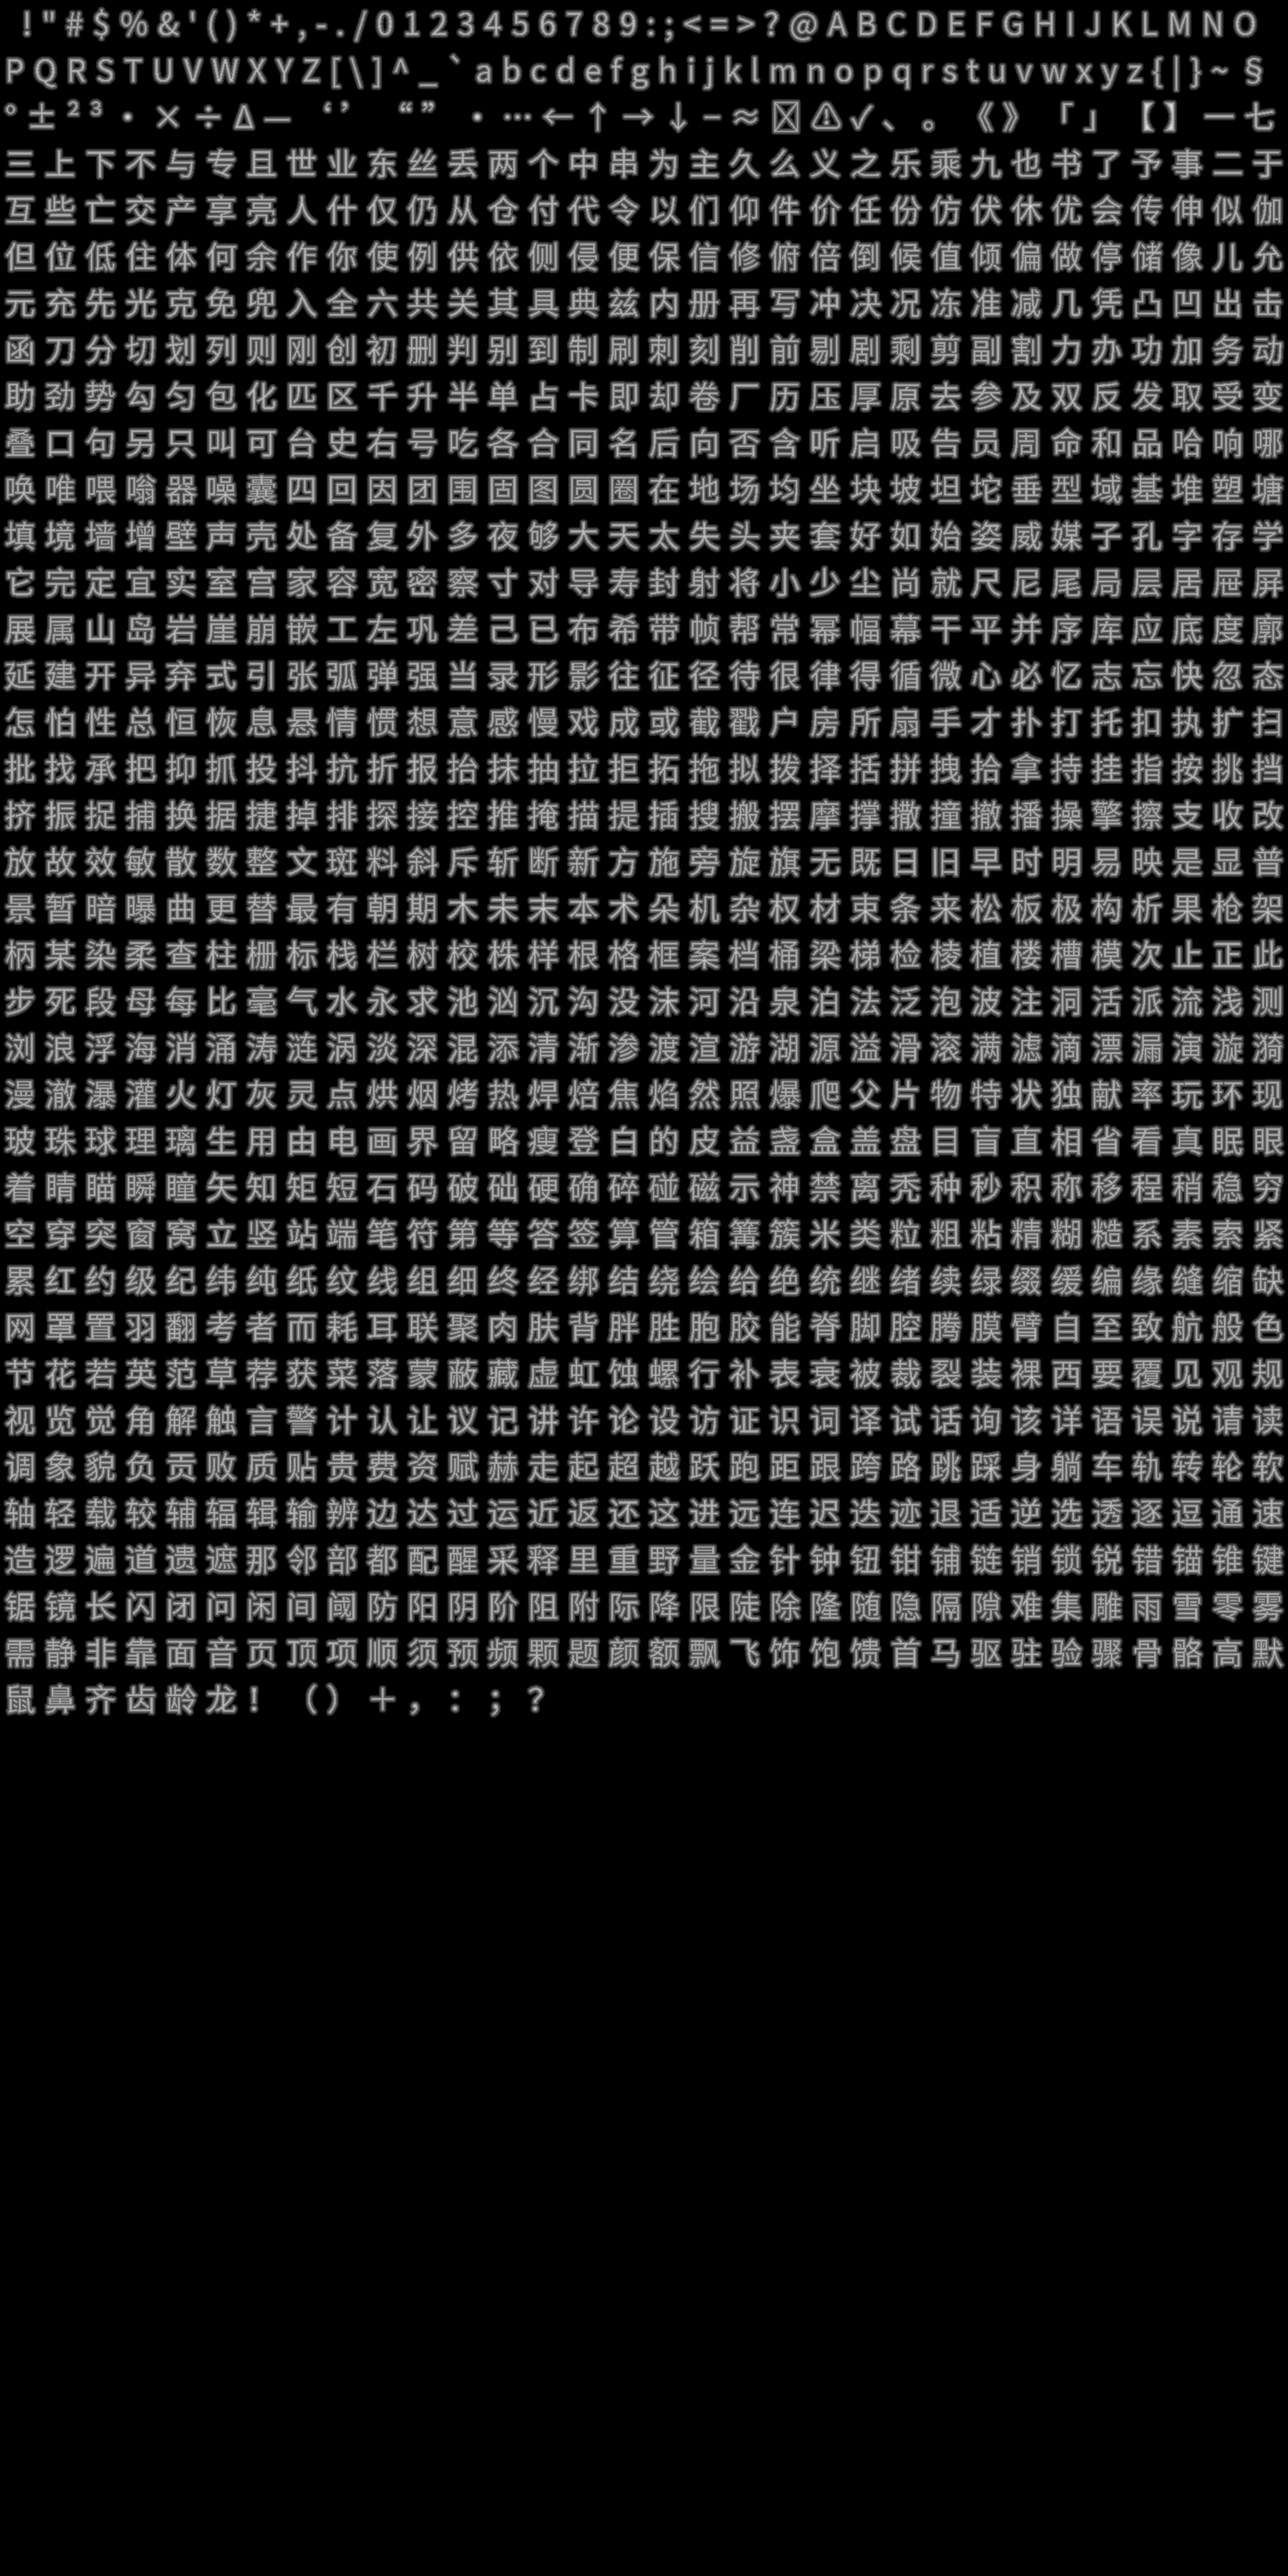
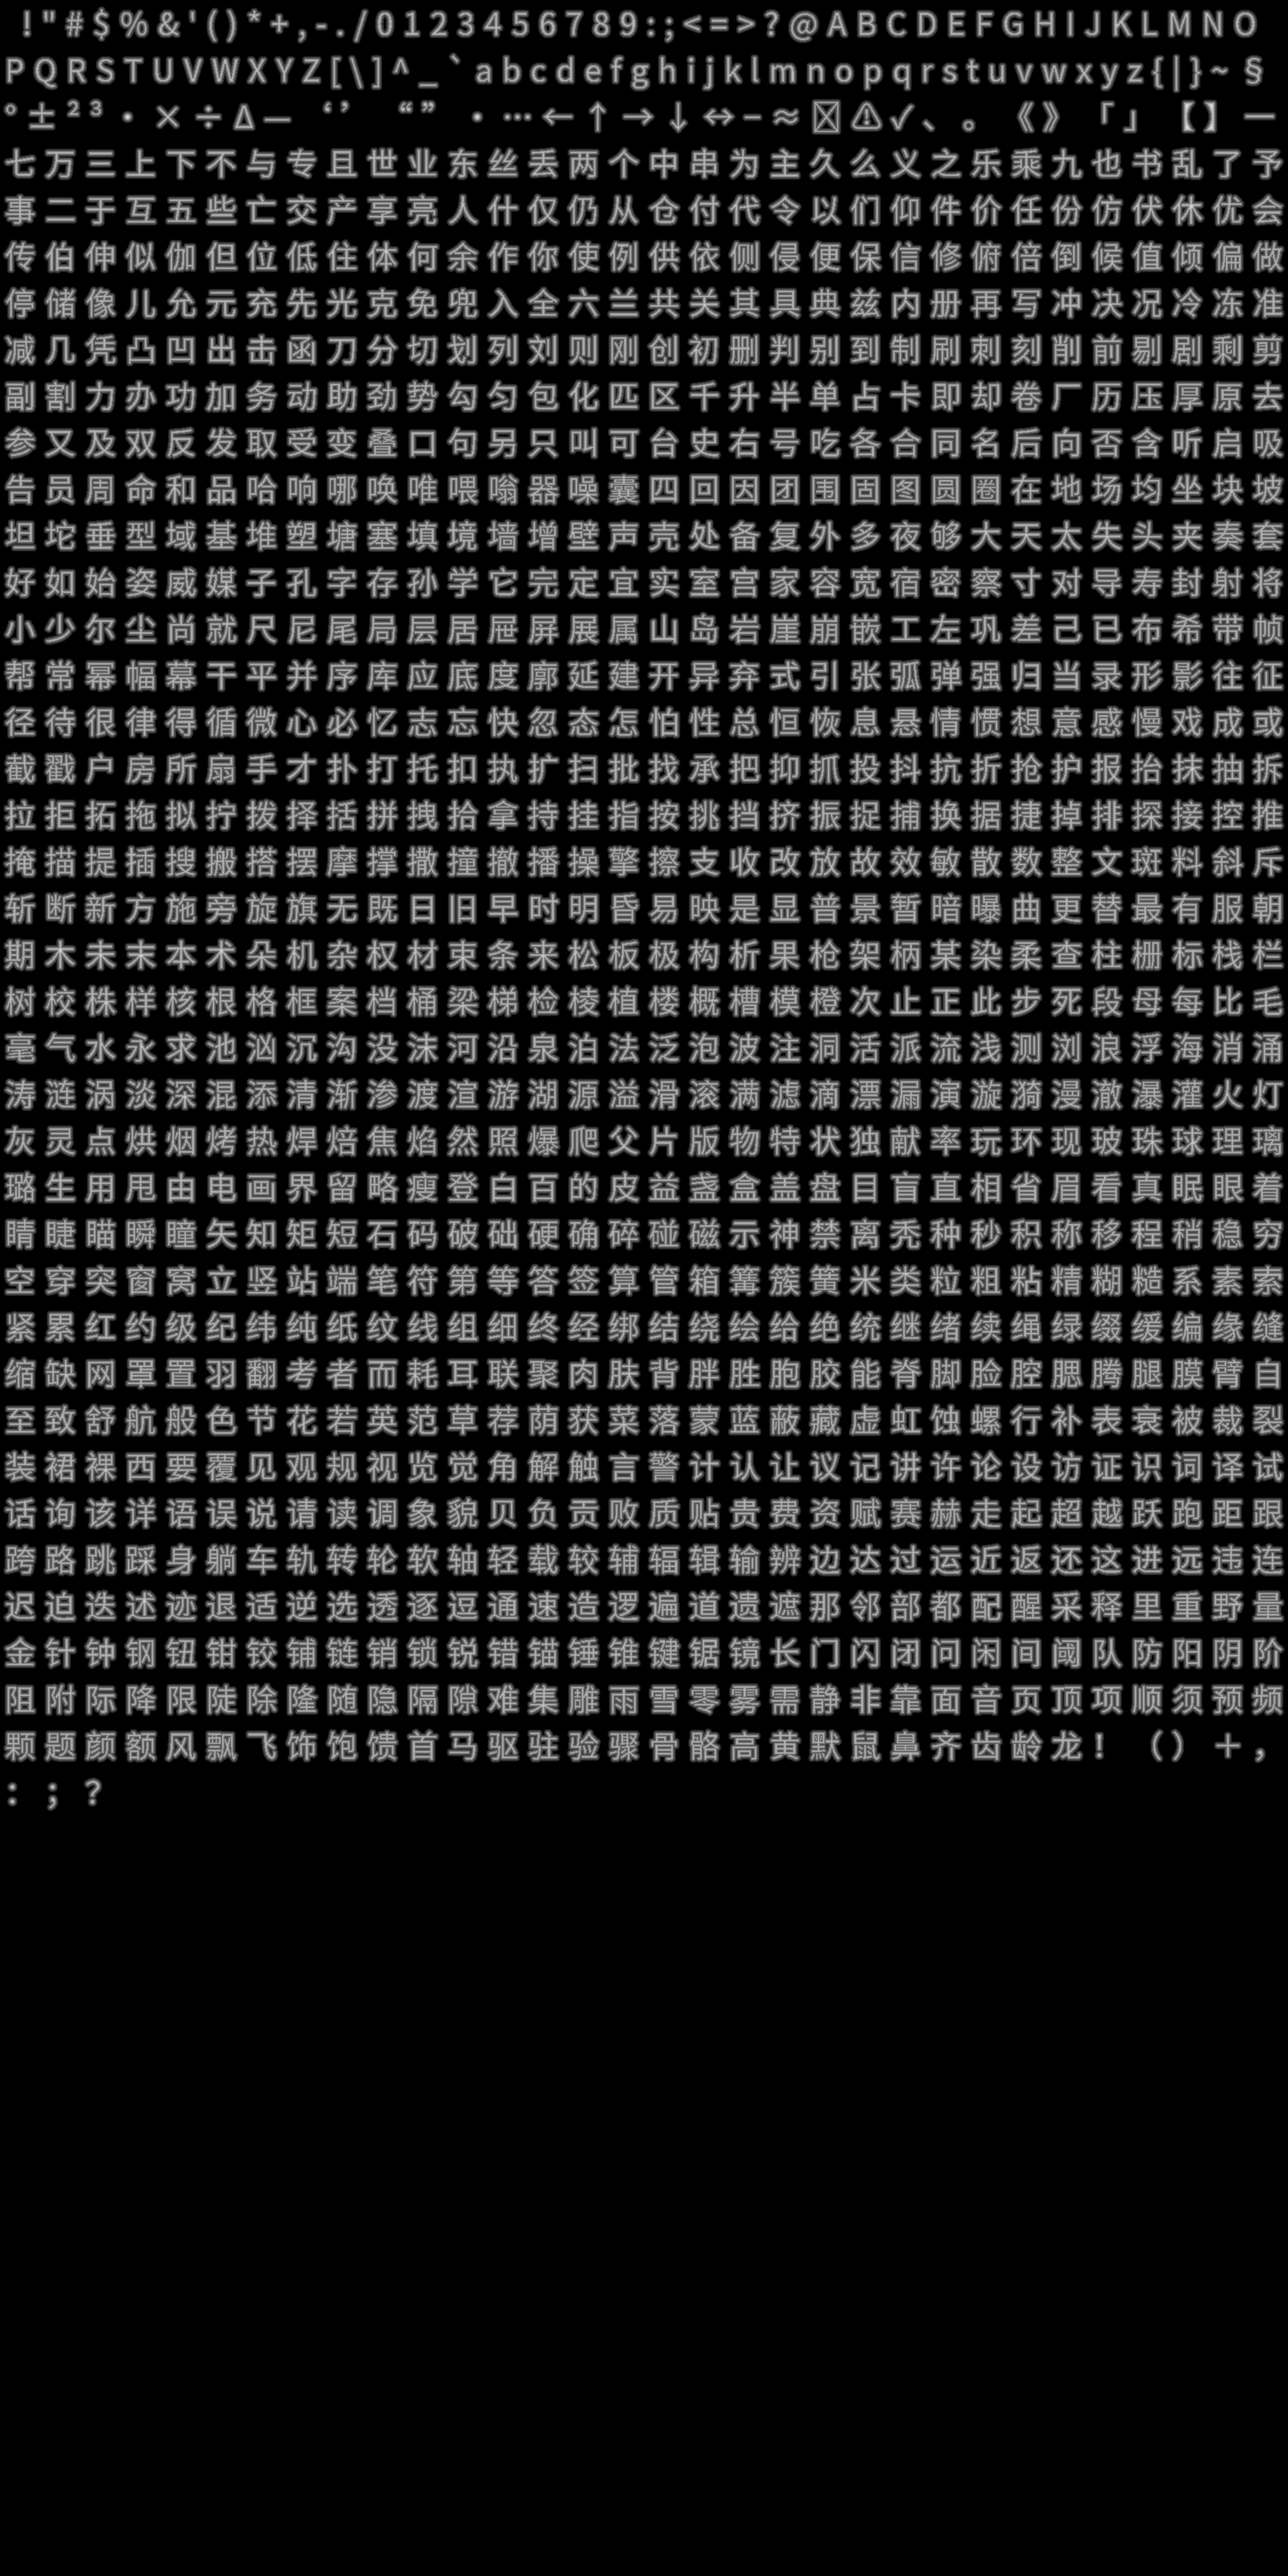
imgui: 46ff5a7 -> 2859f67，并重烤两张基线（像素骨架 + SDF 图集）
任务 #323。

## 为什么这次指针「该动」

上一轮（2d40d62）把指针钉回 46ff5a7，是因为它和**工作区**不一致。这次是
相反的方向：46ff5a7 -> 2859f67 是 1.93.0 WIP 开发分支上前进的 131 个提交
（2026-09-29 -> 2026-10-07）。注意 `IMGUI_VERSION` 两个提交都是
"1.93.0 WIP" —— 版本串没变，所以这不是大版本升级，而是一次开发分支的前移。

## 改了哪些源码

`ImDrawFlags_RoundCorners*` -> `ImDrawFlags_Round*`。旧名在新版本里还留着
（往 `ImDrawFlags_RoundTopLeft` 等别名上映射），所以**不改也能编**；改是因为
那是每次清 obsolete 时第一批被删的东西，顺手改掉省得下次被动踩。三处纯改名
（ContentBrowser / ViewportTabs / UiChrome）随本提交落地；EditorApp.cpp 里那
一处与 R6 的曲线编辑器改动混在同一文件，留给那边一起提交。

## 两张「重烤」

1. `tools/vp_nohud_baseline.png`（V3 面板骨架 / V3b 天空色调的参考图）
   1.93 重写了字体栈（`ImFontBaked` 延迟烘焙 / atlas 新增烘焙项），字形**宽度
   没变**、排布整体挪了位。重烤前实测：
     · 变化像素 11082 / 1331832 = 0.83%，最大通道差 202（全是字形边缘）
     · "Perspective" 一词两张图都是 78px 宽 → 度量没变，是**起点**右移 6px
     · 视口左分隔线 305 -> 304px
     · 天空三通道均值差 0.000（tonemap/曝光一个像素没动）
   为什么要重烤而不是"反正 V3 容差 8px 能过"：这次位移已经吃掉 6px，留着旧
   基线等于这道守卫只剩 2px 余量 —— "布局真动了 3px"这种该红的会静默放过。
   容差是用来兜不确定性的，不是用来兜已知偏移的。重烤后 V3 最大差 0px。

2. `assets/ui/fonts/noto_sc_sdf.{png,json}`（游戏内 HUD 的 SDF 字体图集）
   与 imgui 无关，是被回归抓出来的：词典现在有 1151 个非 ASCII 字符，而图集
   还是按 1059 个字符那次烤的 → 缺 53 个，`verify_ui2` G 组红。
   重新烤制：1253 字形（含 ASCII），2048x4096，高度利用率 70.5%，缺字 0。
   `--atlas-h 4096` 与既有产物同几何 —— 图集尺寸由 JSON 的 atlas.w/h 驱动，
   运行时不假设 2 的幂，所以不需要动任何加载侧代码。

## 顺手修掉一个用例的假红

`verify_multiselect` 五个组各 `launch` 一次编辑器，**从不清理上一组**：跑到 E
组时四份 Editor.exe 同时活着，互相抢前台。实测同一份二进制三次运行红在三处
不同位置（D3 拖拽不生效 / D8 撤销按丢 / E1 点错行），日志里能看到
`WARN 前台被抢走，抢回来：成功` 紧跟丢事件。`launch()` 里加
[…]

Changed region(s): [[0.0, 0.0312, 1.0, 0.6875]]

diff --git a/tools/verify_viewport.py b/tools/verify_viewport.py
@@ -151,6 +151,8 @@ def pinned_env(td, extra=None):
 # 对不上号，属于"知道红了但不知道红在哪"。
 # 改成相对量之后，"内缩多少像素"才是被守的东西：视口整体挪到哪儿都跟着走，
 # 只有"视口被压得装不下这块采样区"才会红。
+# （2026-10-28：默认左栏回到 300、视口左边界 463 → 310，这个推导式一个字都
+#   不用改 —— 当初改成相对量就是为了不再跟着布局重算常量。）
 #
 # 内缩量照抄旧常量的语义：左 25（避开左分隔条 + 工具列）、上 55（避开
 # 工具条）、右 41（避开导航球）、下 28（避开底部提示行）。
@@ -179,9 +181,23 @@ SKEL_TOL = 8
 # 下限抬到 460 之后，它守的已经不是"现在的布局"，而是"两年前那张图"：
 #   · V3 的骨架在深色档下只剩 [458, 1246]（第三条 1574 是浅色主题的**窗口
 #     右边框**，深色下对比度不够，检测不到 —— 它不是面板分隔线）；
-#   · V3b 的天空采样点还按"视口上沿 184"算，而现在是 139。
+#   · V3b 的天空采样点还按"视口上沿 184"算，而现在是 147。
+# 2026-10-28（#317）又一次重抓：默认左栏 460 → 300，视口从 778 宽变成
+# 933 宽、上沿 139 → 147，整块布局都换了位置。
+#
+# 2026-10-28 晚（#323）第三次重抓：imgui `46ff5a7` → `2859f67`（1.93.0 WIP
+# 开发分支上前进 131 个提交，**版本串没变**，所以不是大版本升级）。1.93 重写了
+# 字体栈（`ImFontBaked` 延迟烘焙 / 新的 atlas 烘焙项），字形**宽度没变**、但
+# 排布整体挪了位。重抓前实测的差：
+#   · 变化像素 11082 / 1331832 = 0.83%，最大通道差 202（全是字形边缘）；
+#   · "Perspective" 一词在两张图里都是 78px 宽 → 度量没变，是**起点**右移 6px
+#     （前面控件的间距累积），视口左分隔线 305 → 304；
+#   · 天空三通道均值差 **0.000**（tonemap / 曝光一个像素没动）。
+# 关键点：V3 的容差是 8px，而这次位移已经吃掉 6px。留着旧基线 = 这道守卫只剩
+# 2px 余量，"布局真动了 3px"这种该红的会**静默放过**。所以必须重抓 ——
+# 容差不是用来兜已知偏移的，是用来兜不确定性的。
 # 重抓之后这张图就是"当前默认布局 + 当前默认主题"的参考，再动布局会立刻红。
-BASE_VP_TOP = 139
+BASE_VP_TOP = 147
 SKY_DY = (11, 56)      # 相对视口上沿的深度区间
 SKY_X = (600, 900)     # 横向也避开左右两栏，纯天空
 SKY_TOL = 1.0
@@ -489,10 +505,18 @@ def launch(exe, env_extra, actions=None, shot=None, window=(WIN_W, WIN_H),
 #   对策：要逐像素比的会话一律用 `launch_converged`，等到几何收敛再抓图。
 # 2026-10-17 晚更新：视口工具条并成一行 → 3D 图像上沿 184 → 145。
 # 2026-10-27 更新：左栏（模式栏）下限 300 → 460（建模面板的按钮排得下），
-# 视口左边界跟着从 305 挪到 463。**连起 3 次实测稳定在 (463,139,1241,778)**，
-# 骨架 `[458, 1246]`（旧值 [300,1248,1574] 里那第三条是浅色主题下的窗口
-# 右边框，深色档下对比度不够、检测不到 —— 它不是面板分隔线，见 V3 的说明）。
-CONVERGED_VP = (463, 139, 1241, 778)
+# 视口左边界跟着从 305 挪到 463。
+# 2026-10-28（#317）再更新：**默认**左栏宽度改成"按当前编辑模式取"
+# （`editModeRailMinWidth`：Select / Landscape / Foliage = 300，其余 460）。
+# 默认模式的左栏回到 300 → 视口左边界 463 → **310**、宽 778 → **933**，
+# 右侧工具条 7 颗按钮从"只放得下 3 颗"回到 **7/7**（`VP-BAR-FIT taken=7/7
+# need=346 budget=366`）。
+# ⚠ 上沿 139 → **147** 是这次唯一的"意外"：工具条那一行画完后，
+#   末尾那颗按钮之后有没有 `SameLine` 会影响 ImGui 记下的行高（3 颗时
+#   末尾是 text 按钮 + 尾随 same()，7 颗时末尾是 value 按钮），**实测差 8px**。
+#   不是渲染错位 —— 图像控件的矩形跟着渲染目标一起重算，宽高比不变。
+# 连起 4 次实测稳定在 (310,147,1243,778)，骨架 `[305, 1246]`。
+CONVERGED_VP = (310, 147, 1243, 778)
 LAYOUT_TRIES = 4
 
 

diff --git a/tools/verify_multiselect.py b/tools/verify_multiselect.py
@@ -56,6 +56,7 @@ sys.path.insert(0, os.path.dirname(os.path.abspath(__file__)))
 import launcher_kit as kit                                        # noqa: E402
 from capture_window import find_window, user32                    # noqa: E402
 from verify_asset_drag import force_foreground, move_to           # noqa: E402
+from verify_add_menu import kill_stale_editors                    # noqa: E402
 
 MOUSE_LDOWN = 0x0002      # MOUSEEVENTF_LEFTDOWN
 MOUSE_LUP = 0x0004        # MOUSEEVENTF_LEFTUP
@@ -206,6 +207,20 @@ def run_selftest():
 # ------------------------------------------------------------------ 起编辑器
 
 def launch(scene_path, select="", gizmo="", console_cmd=""):
+    # ⚠ 一次只能有一个编辑器活着（2026-10-28，#323 回归揪出来的）。
+    #
+    # 五个组各 launch 一次，原来**不清理上一组**：跑到 E 组时已经有四份
+    # Editor.exe 同时存在。`find_window` 只会摸到其中一个，而 click() /
+    # drag() 走的是真实 SetCursorPos + mouse_event —— 事件打给"最上层且在前台
+    # 的窗口"。多份窗口互相抢前台的结果是：日志里能看到一串
+    # `WARN 前台被抢走，抢回来：成功`，紧跟着某些点击/按键**整个丢掉**，
+    # 于是同一份二进制三次运行红在三处不同地方：
+    #   · 批量跑：D3 拖拽不生效（end=0）+ E1 row_map 点到别的行
+    #   · 单跑 1：E1/E2/E3/E4（Ctrl+D 只复制了 2 个）
+    #   · 单跑 2：D8 撤销按丢 + E 组点不动
+    # 这不是产品坏了，是"四份窗口抢焦点"。所以每次 launch 前先清场并等窗口
+    # 真的消失（kill_stale_editors 内部会枚举到没有 "Venn Editor" 才返回）。
+    kill_stale_editors()
     env = kit.clean_env({
         "MYVK_EDITOR_SCENE": scene_path,
         "MYVK_LOG_RECTS": "1",          # HIER-ROW / GZ-* / VP-RECT 全靠它

diff --git a/engine/ui/UiChrome.cpp b/engine/ui/UiChrome.cpp
@@ -65,7 +65,7 @@ void cardBackground(ImDrawList* dl, ImVec2 a, ImVec2 b, float rounding,
                           ImVec2(b.x + 2.0f, b.y + 2.0f), u32(g2), r * 1.1f);
         dl->AddRect(ImVec2(a.x - 1.0f, a.y - 1.0f),
                     ImVec2(b.x + 1.0f, b.y + 1.0f), u32(g1), r,
-                    ImDrawFlags_RoundCornersAll,
+                    ImDrawFlags_RoundAll,
                     1.0f + 1.2f * std::min(glow, 1.0f));
     }
 
@@ -77,7 +77,7 @@ void cardBackground(ImDrawList* dl, ImVec2 a, ImVec2 b, float rounding,
     gradientRectV(dl, a, b, u32(top), u32(bot), rounding);
     dl->AddRect(a, b, u32(hot ? mixC(t.borderSoft, t.accent, 0.55f)
                               : t.borderSoft),
-                rounding, ImDrawFlags_RoundCornersAll, 1.0f);
+                rounding, ImDrawFlags_RoundAll, 1.0f);
 }
 
 void headerBand(ImDrawList* dl, ImVec2 a, ImVec2 b, float rounding) {
@@ -154,7 +154,7 @@ bool pillButton(const char* id, const char* label, ImVec2 size, int kind) {
 
     // 边框：主/危险按钮用自身亮一档，普通按钮用软边框
     const ImVec4 edge = (kind == 0) ? t.borderSoft : shiftC(base, 0.18f);
-    dl->AddRect(a, b, u32(edge), r, ImDrawFlags_RoundCornersAll, 1.0f);
+    dl->AddRect(a, b, u32(edge), r, ImDrawFlags_RoundAll, 1.0f);
 
     // 悬停高光：顶部一条半透明白线（玻璃质感）
     if (hovered) {
@@ -185,7 +185,7 @@ void statusPill(const char* text, const ImVec4& color) {
     bg.w *= 0.22f;
     dl->AddRectFilled(p, ImVec2(p.x + w, p.y + h), u32(bg), h * 0.5f);
     dl->AddRect(p, ImVec2(p.x + w, p.y + h), u32(color), h * 0.5f,
-                ImDrawFlags_RoundCornersAll, 1.0f);
+                ImDrawFlags_RoundAll, 1.0f);
     dl->AddText(ImVec2(p.x + 7.0f, p.y + 2.0f), u32(color), text);
 
     ImGui::Dummy(ImVec2(w, h));

diff --git a/editor/ViewportTabs.cpp b/editor/ViewportTabs.cpp
@@ -182,7 +182,7 @@ void drawViewportTabBar(const Rect& bar) {
                           : ImGui::GetColorU32(ImGuiCol_TitleBg, 0.92f);
         if (!active && hovered) bg = ImGui::GetColorU32(ImGuiCol_HeaderHovered);
         dl->AddRectFilled(ImVec2(x, y), ImVec2(x + w, y + h), bg, 4.0f,
-                          ImDrawFlags_RoundCornersTop);
+                          ImDrawFlags_RoundTop);
         if (active) {
             // 激活页顶部一条强调色 —— 标签条上看"我在哪一页"最快的信号
             dl->AddRectFilled(ImVec2(x, y), ImVec2(x + w, y + 2.0f),

diff --git a/editor/ContentBrowser.cpp b/editor/ContentBrowser.cpp
@@ -239,7 +239,7 @@ void drawPageIcon(ImDrawList* dl, ImVec2 p, float s, ImU32 accent, int glyph) {
                     accent, 1.5f, 0, 1.6f);
         dl->AddRectFilled(ImVec2(cx - u, cy - u * 0.8f),
                           ImVec2(cx + u, cy - u * 0.24f), accent, 1.5f,
-                          ImDrawFlags_RoundCornersTop);
+                          ImDrawFlags_RoundTop);
     }
 }
 
